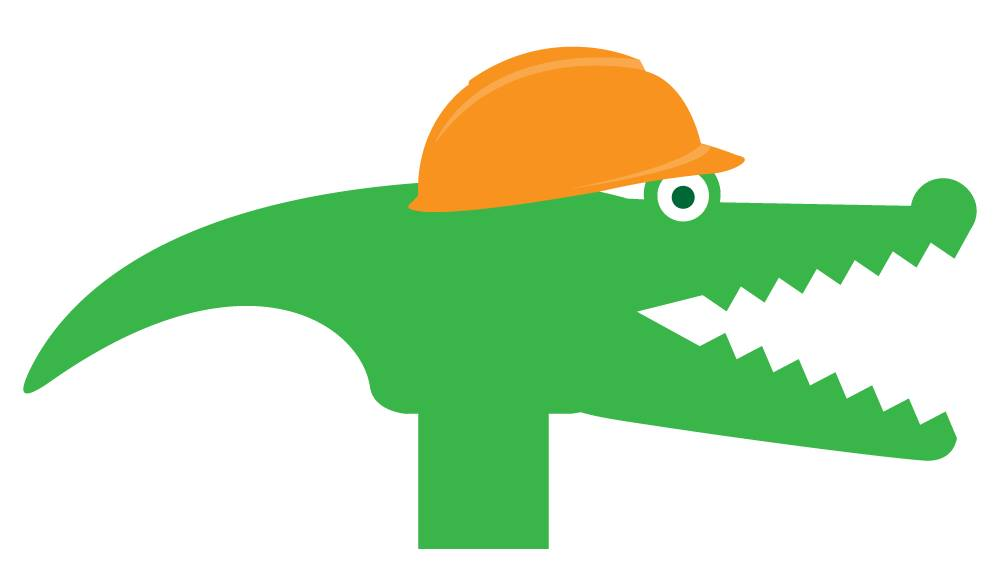
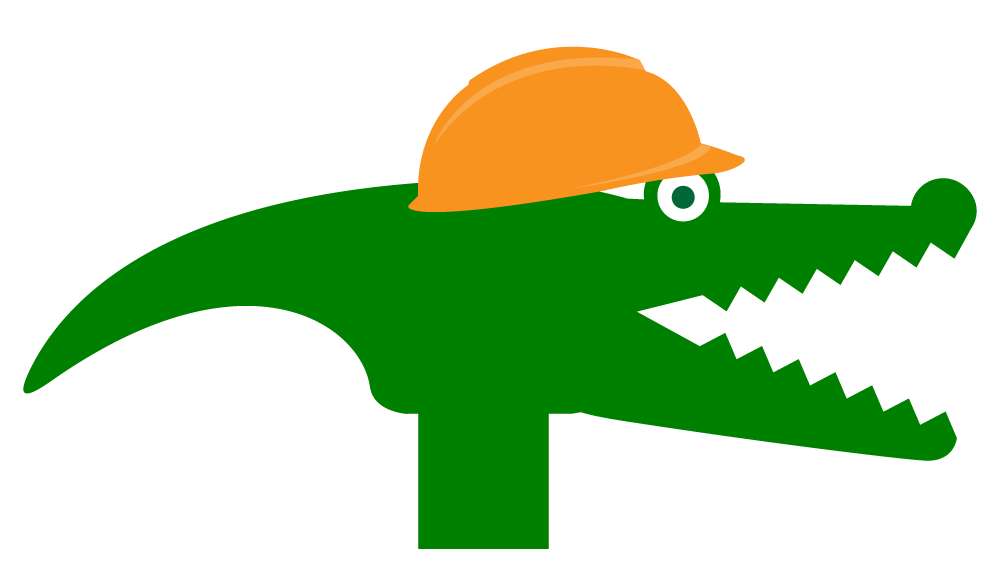
starting style changes

diff --git a/index.html b/index.html
@@ -6,13 +6,14 @@
     <title>Crikey!</title>
     <meta name="viewport" content="width=device-width">
     <script src="https://ajax.googleapis.com/ajax/libs/jquery/1.12.4/jquery.min.js"></script>
-    <link rel="stylesheet" type="text/css" href="css/main.css">
     <link href="https://maxcdn.bootstrapcdn.com/bootstrap/3.3.7/css/bootstrap.min.css" rel="stylesheet" integrity="sha384-BVYiiSIFeK1dGmJRAkycuHAHRg32OmUcww7on3RYdg4Va+PmSTsz/K68vbdEjh4u" crossorigin="anonymous">
     <script src="https://maxcdn.bootstrapcdn.com/bootstrap/3.3.7/js/bootstrap.min.js" integrity="sha384-Tc5IQib027qvyjSMfHjOMaLkfuWVxZxUPnCJA7l2mCWNIpG9mGCD8wGNIcPD7Txa" crossorigin="anonymous"></script>
     <script src="https://use.fontawesome.com/1af0c15e61.js"></script>
+        <link rel="stylesheet" type="text/css" href="css/main.css">
 
     <!-- Google Fonts -->
     <link href='https://fonts.googleapis.com/css?family=Open+Sans' rel='stylesheet' type='text/css'>
+
 </head>
 
 <body>
@@ -21,7 +22,7 @@
 <div class="indexInfo">
   <h1>Crikey!</h1>
   <h2>Helping your community</h2>
-  <button type="button" class="btn btn-primary btn-lg">
+  <button type="button" class="btn btn-primary btn-lg buttonPrimary">
       <i class="fa fa-map-marker"></i> Use Location
   </button>
   <h2> Or </h2>
@@ -29,7 +30,7 @@
       <h2 class="form-signin-heading">Please Enter Location</h2>
       <input type="text" class="form-control" name="street" placeholder="Address" required="" autofocus="" />
       <br>
-      <button class="btn btn-lg btn-primary btn-block" type="submit"> Save</button>
+      <button class="btn btn-lg btn-primary btn-block buttonPrimary" type="submit"> Save</button>
       </button>
   </form>
 </div>

diff --git a/css/main.css b/css/main.css
@@ -173,3 +173,17 @@ footer {
   margin-top:20px;
   margin-bottom:20px;
 }
+
+.buttonPrimary{
+	background-color:green;
+  border: none;
+}
+
+.buttonPrimary:hover{
+	background-color:#004D00;
+  -webkit-transition: background-color 0.2s linear;
+    -moz-transition: background-color 0.2s linear;
+    -ms-transition: background-color 0.2s linear;
+    -o-transition: background-color 0.2s linear;
+    transition: background-color 0.2s linear;
+}
